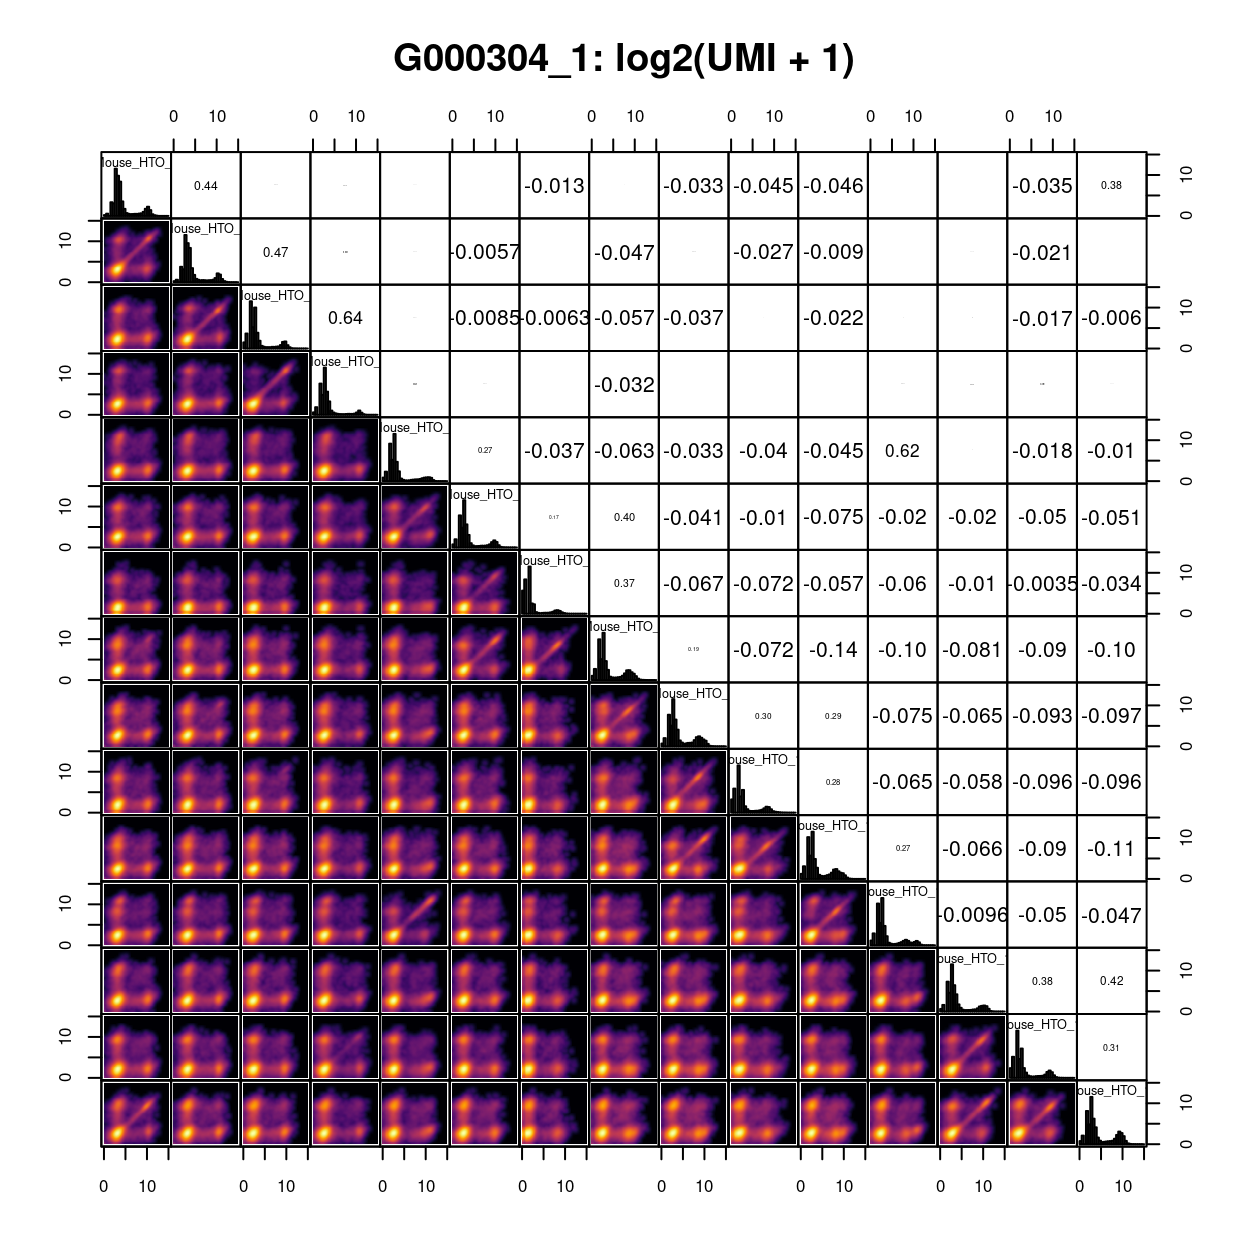
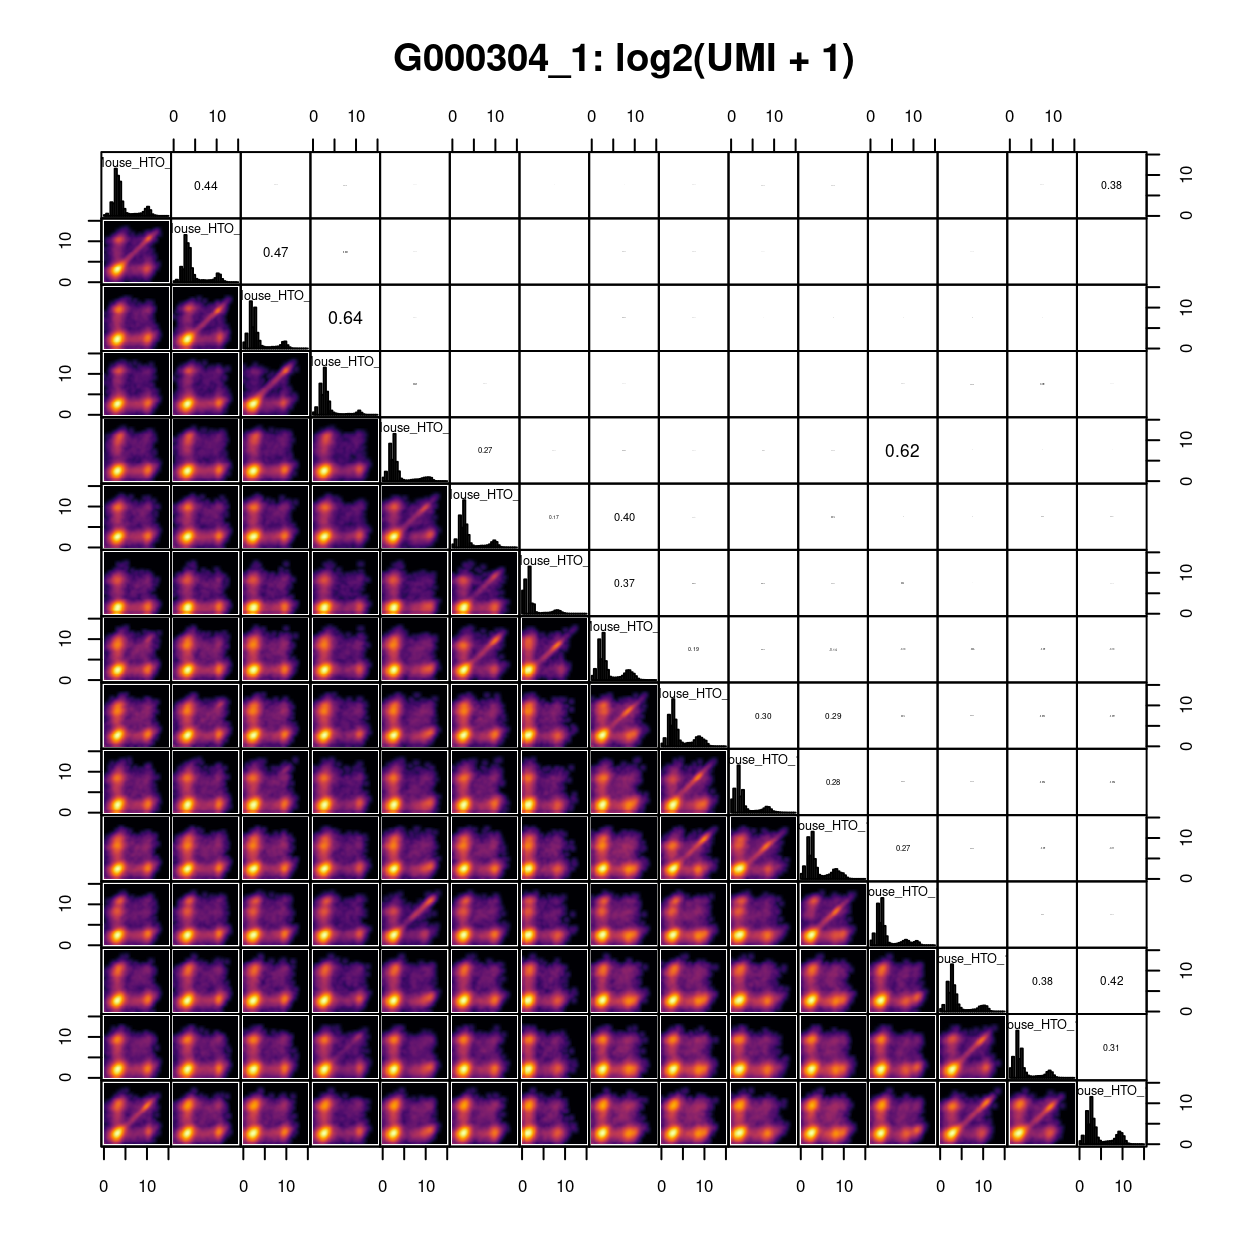
Render demultiplexing.Rmd

diff --git a/docs/G000304_Broomfield.demultiplex.html b/docs/G000304_Broomfield.demultiplex.html
@@ -93,8 +93,8 @@ code span.wa { color: #5e5e5e; font-style: italic; } /* Warning */
 
 
   <!--  https://schema.org/Article -->
-  <meta property="article:published" itemprop="datePublished" content="2023-02-14"/>
-  <meta property="article:created" itemprop="dateCreated" content="2023-02-14"/>
+  <meta property="article:published" itemprop="datePublished" content="2023-03-08"/>
+  <meta property="article:created" itemprop="dateCreated" content="2023-03-08"/>
   <meta name="article:author" content="Peter Hickey"/>
 
   <!--  https://developers.facebook.com/docs/sharing/webmasters#markup -->
@@ -111,7 +111,7 @@ code span.wa { color: #5e5e5e; font-style: italic; } /* Warning */
   <!--radix_placeholder_rmarkdown_metadata-->
 
   <script type="text/json" id="radix-rmarkdown-metadata">
-  {"type":"list","attributes":{"names":{"type":"character","attributes":{},"value":["title","description","author","date","editor_options"]}},"value":[{"type":"character","attributes":{},"value":["Demultiplexing the G000304_Broomfield data set"]},{"type":"NULL"},{"type":"list","attributes":{},"value":[{"type":"list","attributes":{"names":{"type":"character","attributes":{},"value":["name","url","affiliation","affiliation_url"]}},"value":[{"type":"character","attributes":{},"value":["Peter Hickey"]},{"type":"character","attributes":{},"value":["https://peterhickey.org"]},{"type":"character","attributes":{},"value":["Cellular Genomics Projects Team (formerly SCORE), WEHI"]},{"type":"character","attributes":{},"value":["https://www.wehi.edu.au/people/rory-bowden/4536/wehi-advanced-genomics-facility"]}]}]},{"type":"character","attributes":{},"value":["2023-02-14"]},{"type":"list","attributes":{"names":{"type":"character","attributes":{},"value":["chunk_output_type"]}},"value":[{"type":"character","attributes":{},"value":["console"]}]}]}
+  {"type":"list","attributes":{"names":{"type":"character","attributes":{},"value":["title","description","author","date","editor_options"]}},"value":[{"type":"character","attributes":{},"value":["Demultiplexing the G000304_Broomfield data set"]},{"type":"NULL"},{"type":"list","attributes":{},"value":[{"type":"list","attributes":{"names":{"type":"character","attributes":{},"value":["name","url","affiliation","affiliation_url"]}},"value":[{"type":"character","attributes":{},"value":["Peter Hickey"]},{"type":"character","attributes":{},"value":["https://peterhickey.org"]},{"type":"character","attributes":{},"value":["Cellular Genomics Projects Team (formerly SCORE), WEHI"]},{"type":"character","attributes":{},"value":["https://www.wehi.edu.au/people/rory-bowden/4536/wehi-advanced-genomics-facility"]}]}]},{"type":"character","attributes":{},"value":["2023-03-08"]},{"type":"list","attributes":{"names":{"type":"character","attributes":{},"value":["chunk_output_type"]}},"value":[{"type":"character","attributes":{},"value":["console"]}]}]}
   </script>
   <!--/radix_placeholder_rmarkdown_metadata-->
   <!--radix_placeholder_navigation_in_header-->
@@ -2097,7 +2097,7 @@ code span.wa { color: #5e5e5e; font-style: italic; } /* Warning */
 <!--radix_placeholder_front_matter-->
 
 <script id="distill-front-matter" type="text/json">
-{"title":"Demultiplexing the G000304_Broomfield data set","authors":[{"author":"Peter Hickey","authorURL":"https://peterhickey.org","affiliation":"Cellular Genomics Projects Team (formerly SCORE), WEHI","affiliationURL":"https://www.wehi.edu.au/people/rory-bowden/4536/wehi-advanced-genomics-facility","orcidID":""}],"publishedDate":"2023-02-14T00:00:00.000+11:00","citationText":"Hickey, 2023"}
+{"title":"Demultiplexing the G000304_Broomfield data set","authors":[{"author":"Peter Hickey","authorURL":"https://peterhickey.org","affiliation":"Cellular Genomics Projects Team (formerly SCORE), WEHI","affiliationURL":"https://www.wehi.edu.au/people/rory-bowden/4536/wehi-advanced-genomics-facility","orcidID":""}],"publishedDate":"2023-03-08T00:00:00.000+11:00","citationText":"Hickey, 2023"}
 </script>
 
 <!--/radix_placeholder_front_matter-->
@@ -2142,7 +2142,7 @@ Supplementary files
 <div class="d-byline">
   Peter Hickey <a href="https://peterhickey.org" class="uri">https://peterhickey.org</a> (Cellular Genomics Projects Team (formerly SCORE), WEHI)<a href="https://www.wehi.edu.au/people/rory-bowden/4536/wehi-advanced-genomics-facility" class="uri">https://www.wehi.edu.au/people/rory-bowden/4536/wehi-advanced-genomics-facility</a>
   
-<br/>2023-02-14
+<br/>2023-03-08
 </div>
 
 <div class="d-article">
@@ -2211,9 +2211,7 @@ We used combinatorial HTO labelling whereby each sample is labelled with k HTOs 
 Show code
 </summary>
 <div class="sourceCode">
-<pre class="sourceCode r"><code class="sourceCode r"><span><span class='co'># TODO: How to handle samples that didn't progress? Keep them in for now to </span></span>
-<span><span class='co'>#       double-check in HTO demuxing.</span></span>
-<span><span class='va'>sample_metadata_df</span> <span class='op'>&lt;-</span> <span class='fu'><a href='https://readxl.tidyverse.org/reference/read_excel.html'>read_excel</a></span><span class='op'>(</span></span>
+<pre class="sourceCode r"><code class="sourceCode r"><span><span class='va'>sample_metadata_df</span> <span class='op'>&lt;-</span> <span class='fu'><a href='https://readxl.tidyverse.org/reference/read_excel.html'>read_excel</a></span><span class='op'>(</span></span>
 <span>  <span class='fu'><a href='https://here.r-lib.org//reference/here.html'>here</a></span><span class='op'>(</span><span class='st'>"data/sample_sheets/G000304_Broomfield.sample_metadata.xlsx"</span><span class='op'>)</span><span class='op'>)</span></span>
 <span></span>
 <span><span class='co'># A bit of faffing to get it as a list column in the form I've used for other </span></span>
@@ -2233,7 +2231,6 @@ Show code
 <span><span class='va'>hashtag_pool_df</span> <span class='op'>&lt;-</span> <span class='va'>hashtag_pool_df</span><span class='op'>[</span><span class='fu'><a href='https://rdrr.io/r/base/order.html'>order</a></span><span class='op'>(</span><span class='va'>hashtag_pool_df</span><span class='op'>$</span><span class='va'>Sample</span><span class='op'>)</span>, <span class='op'>]</span></span>
 <span></span>
 <span><span class='co'># A bunch of faffing to get the table to print as I want.</span></span>
-<span><span class='co'># TODO: Want actual sample IDs for `removed_*` samples.</span></span>
 <span><span class='va'>hashtag_pool_df</span> <span class='op'>|&gt;</span></span>
 <span>  <span class='fu'>dplyr</span><span class='fu'>::</span><span class='fu'><a href='https://dplyr.tidyverse.org/reference/group_by.html'>group_by</a></span><span class='op'>(</span><span class='va'>Sample</span><span class='op'>)</span> <span class='op'>|&gt;</span></span>
 <span>  <span class='fu'>dplyr</span><span class='fu'>::</span><span class='fu'><a href='https://dplyr.tidyverse.org/reference/mutate.html'>mutate</a></span><span class='op'>(</span></span>
@@ -2360,6 +2357,9 @@ Show code
 </tbody>
 </table>
 </div>
+<aside>
+The <code>removed_*</code> samples denote those samples that did not progress to scRNA-seq (according to Ben).
+</aside>
 <p>We want to demultiplex the droplets using the HTO data.</p>
 <h1 id="setting-up-the-data">Setting up the data</h1>
 <div class="layout-chunk" data-layout="l-body">
@@ -2577,7 +2577,7 @@ Show code
 <span>  <span class='va'>txt</span> <span class='op'>&lt;-</span> <span class='fu'><a href='https://rdrr.io/r/base/format.html'>format</a></span><span class='op'>(</span><span class='fu'><a href='https://rdrr.io/r/base/c.html'>c</a></span><span class='op'>(</span><span class='va'>r</span>, <span class='fl'>0.123456789</span><span class='op'>)</span>, digits <span class='op'>=</span> <span class='va'>digits</span><span class='op'>)</span><span class='op'>[</span><span class='fl'>1</span><span class='op'>]</span></span>
 <span>  <span class='va'>txt</span> <span class='op'>&lt;-</span> <span class='fu'><a href='https://rdrr.io/r/base/paste.html'>paste0</a></span><span class='op'>(</span><span class='va'>prefix</span>, <span class='va'>txt</span><span class='op'>)</span></span>
 <span>  <span class='kw'>if</span> <span class='op'>(</span><span class='fu'><a href='https://rdrr.io/r/base/missing.html'>missing</a></span><span class='op'>(</span><span class='va'>cex.cor</span><span class='op'>)</span><span class='op'>)</span> <span class='va'>cex.cor</span> <span class='op'>&lt;-</span> <span class='fl'>0.8</span> <span class='op'>/</span> <span class='fu'><a href='https://rdrr.io/r/graphics/strwidth.html'>strwidth</a></span><span class='op'>(</span><span class='va'>txt</span><span class='op'>)</span></span>
-<span>  <span class='fu'><a href='https://rdrr.io/r/graphics/text.html'>text</a></span><span class='op'>(</span><span class='fl'>0.5</span>, <span class='fl'>0.5</span>, <span class='va'>txt</span>, cex <span class='op'>=</span> <span class='va'>cex.cor</span> <span class='op'>*</span> <span class='va'>r</span><span class='op'>)</span></span>
+<span>  <span class='fu'><a href='https://rdrr.io/r/graphics/text.html'>text</a></span><span class='op'>(</span><span class='fl'>0.5</span>, <span class='fl'>0.5</span>, <span class='va'>txt</span>, cex <span class='op'>=</span> <span class='va'>cex.cor</span> <span class='op'>*</span> <span class='fu'><a href='https://rdrr.io/r/base/MathFun.html'>abs</a></span><span class='op'>(</span><span class='va'>r</span><span class='op'>)</span><span class='op'>)</span></span>
 <span><span class='op'>}</span></span>
 <span></span>
 <span><span class='co'># NOTE: A modified .smoothScatter() to allow desired specification of xlim and </span></span>
@@ -2695,8 +2695,8 @@ Show code
 </div>
 <div class="panelset">
 <div class="panel">
-<p><strong>TODO</strong> Need to re-write because HTOs are reused so the diagonal is less strong and harder to interpret.</p>
-<p>Figures <a href="#fig:hto-scatterplot-matrix-1">4</a> - <a href="#fig:hto-scatterplot-matrix-2">5</a> show that the HTO data are high-quality (e.g., good separation of background and signal in the histograms along the diagonal of these figures, high correlation of paired HTOs).</p>
+<p>Figures <a href="#fig:hto-scatterplot-matrix-1">4</a> - <a href="#fig:hto-scatterplot-matrix-2">5</a> show that the HTO data are good-quality (e.g., good separation of background and signal in the histograms along the diagonal of these figures, reasonably high correlation of paired HTOs<a href="#fn1" class="footnote-ref" id="fnref1" role="doc-noteref"><sup>1</sup></a>).</p>
+<p><a href="#fn2" class="footnote-ref" id="fnref2" role="doc-noteref"><sup>2</sup></a>: Because HTOs are reused across samples (e.g., <code>Mouse_HTO_2</code> is used in labelling both sample <code>5899</code> and <code>5900</code>), the correlations are not as high as they would otherwise be.</p>
 <h3 class="panel-name" id="g000304_1">G000304_1</h3>
 <div class="layout-chunk" data-layout="l-body">
 <details>
@@ -3009,8 +3009,8 @@ Show code
 </div>
 <p><strong>TODO</strong> Re-write</p>
 <p>Here, we have used <strong>demuxmix</strong>’s default acceptance probability of <code>pAcpt</code> <span class="math inline">\(= 0.9 ^ {n_{HTOs}}\)</span> = 0.21.
-We might consider increasing the acceptance probability, e.g., to <code>pAcpt</code> <span class="math inline">\(= 0.9 ^ {n_{HTO pools}}\)</span> = 0.06.
-However, increasing the acceptance probability will increase the number of <code>uncertain</code> or <code>negative</code>-assigned droplets, in this case from 9 to 0.</p>
+We might consider decreasing the acceptance probability, e.g., to <code>pAcpt</code> <span class="math inline">\(= 0.9 ^ {n_{HTO pools}}\)</span> = 0.06.
+However, decreasing the acceptance probability will decrease the number of <code>uncertain</code> or <code>negative</code>-assigned droplets, in this case from 9 to 0.</p>
 <aside>
 Please see <a href="https://github.com/huklein/demuxmix/issues/2#issuecomment-1241026309">https://github.com/huklein/demuxmix/issues/2#issuecomment-1241026309</a> for a discussion on the default acceptance probability and the effect of changing it.
 </aside>
@@ -3025,7 +3025,10 @@ Show code
 <span>    <span class='va'>demuxmix_df</span><span class='op'>$</span><span class='va'>HTO</span> <span class='op'><a href='https://rdrr.io/r/base/match.html'>%in%</a></span> <span class='va'>valid_hto_combos_df</span><span class='op'>$</span><span class='va'>HTO</span>,</span>
 <span>    <span class='va'>valid_hto_combos_df</span><span class='op'>[</span></span>
 <span>      <span class='fu'><a href='https://rdrr.io/r/base/match.html'>match</a></span><span class='op'>(</span><span class='va'>demuxmix_df</span><span class='op'>$</span><span class='va'>HTO</span>, <span class='va'>valid_hto_combos_df</span><span class='op'>$</span><span class='va'>HTO</span><span class='op'>)</span>, <span class='st'>"Pool"</span><span class='op'>]</span>,</span>
-<span>    <span class='va'>demuxmix_df</span><span class='op'>$</span><span class='va'>Type</span><span class='op'>)</span>,</span>
+<span>    <span class='fu'><a href='https://rdrr.io/r/base/ifelse.html'>ifelse</a></span><span class='op'>(</span></span>
+<span>      <span class='va'>demuxmix_df</span><span class='op'>$</span><span class='va'>Type</span> <span class='op'>==</span> <span class='st'>"singlet"</span>,</span>
+<span>      <span class='st'>"uncertain"</span>,</span>
+<span>      <span class='va'>demuxmix_df</span><span class='op'>$</span><span class='va'>Type</span><span class='op'>)</span><span class='op'>)</span>,</span>
 <span>  levels <span class='op'>=</span> <span class='fu'><a href='https://rdrr.io/r/base/c.html'>c</a></span><span class='op'>(</span></span>
 <span>    <span class='fu'><a href='https://rdrr.io/r/base/unique.html'>unique</a></span><span class='op'>(</span><span class='va'>valid_hto_combos_df</span><span class='op'>$</span><span class='va'>Pool</span><span class='op'>)</span>, </span>
 <span>    <span class='st'>"multiplet"</span>, <span class='st'>"negative"</span>, <span class='st'>"uncertain"</span><span class='op'>)</span><span class='op'>)</span></span>
@@ -3327,7 +3330,7 @@ Figure 11: Library size for each library type per droplet assignment from HTO de
 </div>
 </div>
 <h1 id="concluding-remarks">Concluding remarks</h1>
-<p>The demultiplexed <em>SingleCellExperiment</em> object is saved and will be used in downstream analyses, e.g., pre-processing<a href="#fn1" class="footnote-ref" id="fnref1" role="doc-noteref"><sup>1</sup></a>.</p>
+<p>The demultiplexed <em>SingleCellExperiment</em> object is saved and will be used in downstream analyses, e.g., pre-processing<a href="#fn3" class="footnote-ref" id="fnref3" role="doc-noteref"><sup>3</sup></a>.</p>
 <div class="layout-chunk" data-layout="l-body">
 <details>
 <summary>
@@ -3370,12 +3373,12 @@ Show code
  collate  en_US.UTF-8
  ctype    en_US.UTF-8
  tz       Australia/Melbourne
- date     2023-02-14
+ date     2023-03-08
  pandoc   2.19.2 @ /usr/lib/rstudio-server/bin/quarto/bin/tools/ (via rmarkdown)
 
 ─ Packages ─────────────────────────────────────────────────────────
  ! package              * version   date (UTC) lib source
- P ape                    5.6-2     2022-03-02 [?] CRAN (R 4.2.0)
+ P ape                    5.7       2023-02-16 [?] CRAN (R 4.2.1)
  P beachmat               2.14.0    2022-11-01 [?] Bioconductor
  P beeswarm               0.4.0     2021-06-01 [?] CRAN (R 4.2.1)
  P Biobase              * 2.58.0    2022-11-01 [?] Bioconductor
@@ -3385,7 +3388,7 @@ Show code
  P BiocSingular           1.14.0    2022-11-01 [?] Bioconductor
  P bitops                 1.0-7     2021-04-24 [?] CRAN (R 4.2.1)
  P bslib                  0.4.2     2022-12-16 [?] CRAN (R 4.2.1)
- P cachem                 1.0.6     2021-08-19 [?] CRAN (R 4.2.1)
+ P cachem                 1.0.7     2023-02-24 [?] CRAN (R 4.2.1)
  P cellranger             1.1.0     2016-07-27 [?] CRAN (R 4.2.1)
  P cli                    3.6.0     2023-01-09 [?] CRAN (R 4.2.1)
  P cluster                2.1.4     2022-08-22 [?] CRAN (R 4.2.0)
@@ -3405,7 +3408,7 @@ Show code
  P evaluate               0.20      2023-01-17 [?] CRAN (R 4.2.1)
  P fansi                  1.0.4     2023-01-22 [?] CRAN (R 4.2.1)
  P farver                 2.1.1     2022-07-06 [?] CRAN (R 4.2.1)
- P fastmap                1.1.0     2021-01-25 [?] CRAN (R 4.2.1)
+ P fastmap                1.1.1     2023-02-24 [?] CRAN (R 4.2.1)
  P generics               0.1.3     2022-07-05 [?] CRAN (R 4.2.0)
  P GenomeInfoDb         * 1.34.9    2023-02-02 [?] Bioconductor
  P GenomeInfoDbData       1.2.9     2022-10-22 [?] Bioconductor
@@ -3429,15 +3432,15 @@ Show code
  P labeling               0.4.2     2020-10-20 [?] CRAN (R 4.2.1)
  P lattice                0.20-45   2021-09-22 [3] CRAN (R 4.2.1)
  P lifecycle              1.0.3     2022-10-07 [?] CRAN (R 4.2.1)
- P limma                  3.54.1    2023-01-26 [?] Bioconductor
+ P limma                  3.54.2    2023-02-28 [?] Bioconductor
  P locfit                 1.5-9.7   2023-01-02 [?] CRAN (R 4.2.1)
  P magrittr               2.0.3     2022-03-30 [?] CRAN (R 4.2.1)
- P MASS                   7.3-58.2  2023-01-23 [?] CRAN (R 4.2.1)
+ P MASS                   7.3-58.3  2023-03-07 [?] CRAN (R 4.2.1)
  P Matrix                 1.5-3     2022-11-11 [3] CRAN (R 4.2.1)
  P MatrixGenerics       * 1.10.0    2022-11-01 [?] Bioconductor
  P matrixStats          * 0.63.0    2022-11-18 [?] CRAN (R 4.2.1)
  P memoise                2.0.1     2021-11-26 [?] CRAN (R 4.2.1)
- P mgcv                   1.8-41    2022-10-21 [?] CRAN (R 4.2.1)
+ P mgcv                   1.8-42    2023-03-02 [?] CRAN (R 4.2.1)
  P munsell                0.5.0     2018-06-12 [?] CRAN (R 4.2.1)
  P nlme                   3.1-162   2023-01-31 [?] CRAN (R 4.2.1)
  P patchwork            * 1.1.2     2022-08-19 [?] CRAN (R 4.2.0)
@@ -3463,7 +3466,7 @@ Show code
  P rprojroot              2.0.3     2022-04-02 [?] CRAN (R 4.2.1)
  P rstudioapi             0.14      2022-08-22 [?] CRAN (R 4.2.1)
  P rsvd                   1.0.5     2021-04-16 [?] CRAN (R 4.2.1)
- P S4Vectors            * 0.36.1    2022-12-05 [?] Bioconductor
+ P S4Vectors            * 0.36.2    2023-02-26 [?] Bioconductor
  P sass                   0.4.5     2023-01-24 [?] CRAN (R 4.2.1)
  P ScaledMatrix           1.6.0     2022-11-01 [?] Bioconductor
  P scales                 1.2.1     2022-08-20 [?] CRAN (R 4.2.1)
@@ -3506,12 +3509,15 @@ Show code
 <li><input type="checkbox" disabled="" />Discuss results with SCORE and then Ben and Jo.</li>
 <li><input type="checkbox" disabled="" />Proofread</li>
 <li><input type="checkbox" disabled="" />Use GEX instead of RNA</li>
+<li><input type="checkbox" disabled="" />Unknown HTO combination is the 3rd most frequent (HTOs 1 &amp; 15); see EDA_HTO.R</li>
 </ul>
 <div class="sourceCode" id="cb2"><pre class="sourceCode r distill-force-highlighting-css"><code class="sourceCode r"></code></pre></div>
 <section id="footnotes" class="footnotes footnotes-end-of-document" role="doc-endnotes">
 <hr />
 <ol>
-<li id="fn1"><p>Due to file size restrictions, this file is not available from the GitHub repository. It will be made available by alternative means. The md5sum of the file created by rendering of this report is recorded in <a href="../data/md5/"><code>data/md5/</code></a><a href="#fnref1" class="footnote-back" role="doc-backlink">↩</a></p></li>
+<li id="fn1"><p>1<a href="#fnref1" class="footnote-back" role="doc-backlink">↩</a></p></li>
+<li id="fn2"><p>1<a href="#fnref2" class="footnote-back" role="doc-backlink">↩</a></p></li>
+<li id="fn3"><p>Due to file size restrictions, this file is not available from the GitHub repository. It will be made available by alternative means. The md5sum of the file created by rendering of this report is recorded in <a href="../data/md5/"><code>data/md5/</code></a><a href="#fnref3" class="footnote-back" role="doc-backlink">↩</a></p></li>
 </ol>
 </section>
 <!--radix_placeholder_article_footer-->
